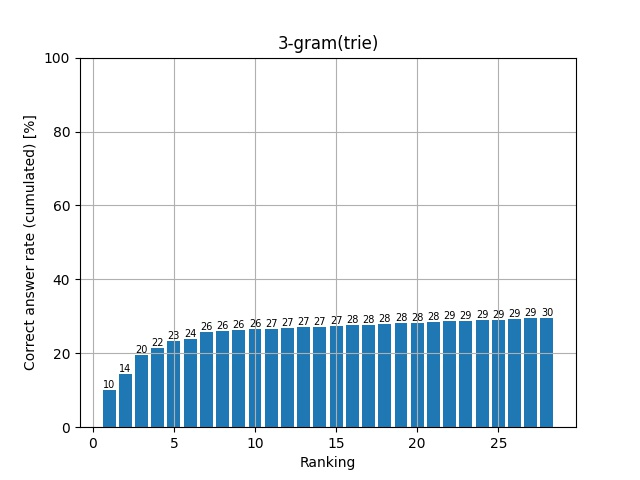
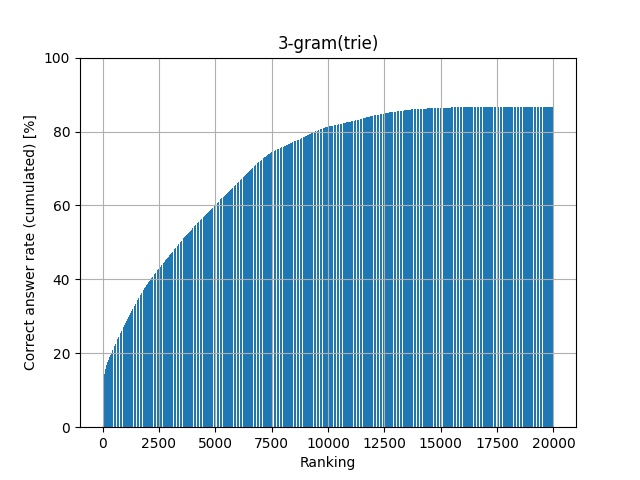
Update create_trie.py

diff --git a/create_trie.py b/create_trie.py
@@ -8,6 +8,8 @@ import preprocess
 import re
 import numpy as np
 import matplotlib.pyplot as plt
+from collections import deque
+import copy
 
 file_name = 'abcmiz_0.json'
 file_path = os.path.join('./learning_data', file_name)
@@ -16,6 +18,7 @@ MML_VCT = './data/mml.vct'
 
 # トライの最大の深さ
 N = 3
+Ranking_Number = 20000
 
 class TrieNode:
     def __init__(self, name):
@@ -44,7 +47,8 @@ class TrieCompleteManager:
 
     def __init__(self):
         self.root = None
-        self.accuracy = np.array([0 for _ in range(30)])
+        self.accuracy = np.array([0 for _ in range(Ranking_Number)])
+        self.right_answer_nums = 0
         self.prediction_time = 0
         self.setup()
     
@@ -69,8 +73,9 @@ class TrieCompleteManager:
             try:
                 assess_file_manager = OneFileAssessManager(file_path)
                 if method_name == 'acuracy':
-                    accuracy, tmp, prediction_times = assess_file_manager.assess_file_acuracy(self)
+                    accuracy, right_answer_nums, prediction_times = assess_file_manager.assess_file_acuracy(self)
                     self.accuracy += np.array(accuracy)
+                    self.right_answer_nums += right_answer_nums
                     self.prediction_time +=  prediction_times
                 elif method_name == 'keystroke':
                     assess_file_manager.assess_file_keystroke(self)
@@ -135,9 +140,7 @@ class TrieCompleteManager:
         self.type_to_symbols = type_to_symbols
 
     # 「__M_」などを具体的に，優先度をつけて提案できるように
-    def predict(self, user_input, type_to_symbols):
-        variables = []
-        labels = []
+    def predict(self, user_input, parsed_input, type_to_symbols, variables, labels):
         n = len(user_input)
         tree = self.root
         
@@ -145,22 +148,31 @@ class TrieCompleteManager:
         if n > N:
             n = N
 
-        token_list = user_input[::-1]
-        for i in range(n):
-            # FIXME:シンボルに接頭辞がついていないため，意図通りに動作しない
-            token = check_token_type(token_list, i)
-            # ユーザが利用している変数を保存しておく
-            if token == '__variable_':
-                variables.append(token_list[i])
-            elif token == '__label_':
-                labels.append(token_list[i])
+        parsed_input_reversed = parsed_input[::-1]
 
+        # ユーザ入力から，トライ木を検索
+        for i in range(len(parsed_input_reversed)):
+            # FIXME:シンボルに接頭辞がついていないため，意図通りに動作しない
+            # object -> 変数と判定されてしまう
+            # 「let x be object;」
+            # token = check_token_type(token_list, i)
+            token = parsed_input_reversed[i]
+
+            # ユーザが利用している変数を保存
+            if token == '__variable_':
+                variables.append(user_input[i])
+                pass
+            # ユーザが利用しているラベルを保存
+            elif token == '__label_':
+                labels.append(user_input[i])
+                pass
+            # トライ木の検索
             if token in tree.children:
                 tree = tree.children[token]
             else:
                 return {}
 
-        # [[トークン, 出現回数]]の形式
+        # sorted_keywordsは[[トークン, 出現回数]]の形式
         # 例：[['__variable', 100], ['be', 60] ... ]
         sorted_keywords = sorted(tree.keywords.items(), key=lambda x:x[1], reverse=True)
 
@@ -168,6 +180,8 @@ class TrieCompleteManager:
         # 例：{"be":1, "being":2}
         suggest_keywords = {}
         cnt = 1
+
+        # 「__variable_」「__M_」などを展開する処理
         for keyword in sorted_keywords:
             matched = re.match(r'__(\w)_', keyword[0])
             if matched:
@@ -182,26 +196,16 @@ class TrieCompleteManager:
                 for word in type_to_symbols[symbol_type[0]]:
                     suggest_keywords[word] = cnt
                     cnt += 1
+            # ユーザが利用した変数を提案
             elif keyword[0] == '__variable_':
-                # FIXME:変数の判別ができていない，1つしか提案できていない
-                # for v in variables[::-1]:
-                #     suggest_keywords[v] = cnt
-                #     cnt += 1
-
-                for v in ['x', 'y']:
+                for v in list(variables)[::-1]:
                     suggest_keywords[v] = cnt
                     cnt += 1
-                pass
+            
             elif keyword[0] == '__label_':
-                # FIXME:変数の場合と同様
-                # for l in labels[::-1]:
-                #     suggest_keywords[l] = cnt
-                #     cnt += 1
-
-                for l in ['A1', 'A2']:
+                for l in list(labels)[::-1]:
                     suggest_keywords[l] = cnt
                     cnt += 1
-                pass
             else:
                 suggest_keywords[keyword[0]] = cnt
                 cnt += 1
@@ -230,7 +234,8 @@ class TrieCompleteManager:
         plt.bar(left[:-2], height[:-2])
         count = 0
         for x, y in zip(left[:-2], height[:-2]):
-            plt.text(x, y, str(int(round(height[count], 0))), ha='center', va='bottom', fontsize=7)
+            # plt.text(x, y, str(int(round(height[count], 0))), ha='center', va='bottom', fontsize=7)
+            plt.text(x, y, '', ha='center', va='bottom', fontsize=7)
             count += 1
         plt.savefig(f'graphs/{title}.jpg')
         
@@ -240,8 +245,8 @@ class OneFileAssessManager:
 
     def __init__(self, file_name):
         self.file_name = file_name
-        self.variables = []
-        self.labels = []
+        self.variables = deque([])
+        self.labels = deque([])
         self.article = None
         self.type_to_symbols = None
 
@@ -249,48 +254,118 @@ class OneFileAssessManager:
             json_loaded = json.load(f)
         self.type_to_symbols = json_loaded['symbols']
         self.article = json_loaded['contents']
-
+    
+    def get_user_input(self, i, line_tokens, parsed_tokens):
+        if i >= N:
+            user_input = line_tokens[i-N+1:i]
+            parsed_input = parsed_tokens[i-N+1:i]
+        else:
+            user_input = parsed_tokens[:i]
+            parsed_input = parsed_tokens[:i]
+        
+        return user_input, parsed_input
     
     def assess_file_acuracy(self, trie_manager):
-        right_answer_nums = [0 for _ in range(30)]
+        right_answer_nums = [0 for _ in range(Ranking_Number)]
         prediction_cnt = 0
         in_suggest_cnt = 0
 
         for line in self.article:
             line_tokens= []
+            parsed_tokens = []
+            
             for token in line:
                 # tokenは["x", "__variable_"]のようになっている
                 # 予測プログラムには生のトークンを入力する
                 line_tokens.append(token[0])
+                parsed_tokens.append(token[1])
 
             for i in range(1, len(line_tokens)):
-                # 最大でN-1トークンを切り出す，iのトークンを予測
-                if i >= N:
-                    user_input = line_tokens[i-N+1:i]
-                else:
-                    user_input = line_tokens[:i]
-                
                 answer = line[i][0]
-                
-                suggest_keywords = trie_manager.predict(user_input, self.type_to_symbols)
+                user_input, parsed_input = self.get_user_input(i, line_tokens, parsed_tokens)
+                # suggest_keywords{'キーワード':優先順位}の辞書
+                # 例：{'be':1, 'being':2}
+                suggest_keywords = trie_manager.predict(user_input, parsed_input, self.type_to_symbols, self.variables, self.labels)
                 prediction_cnt += 1
                 
+                # 答えが提案候補に入っている数をカウント
                 if answer in suggest_keywords:
                     in_suggest_cnt += 1
                     rank = suggest_keywords[answer]
 
-                # 30候補以内であればインクリメント
-                if answer in suggest_keywords and suggest_keywords[answer] <= 30:
+                # Ranking_Number候補以内であればインクリメント
+                if answer in suggest_keywords and suggest_keywords[answer] <= Ranking_Number:
                     rank = suggest_keywords[answer]
                     right_answer_nums[rank-1] += 1
                 # print(f'input:{user_input}')
                 # print(f'suggest:{suggest_keywords}')
-        print(trie_manager.accuracy, trie_manager.prediction_time)
+        # print(trie_manager.accuracy, trie_manager.prediction_time)
         return right_answer_nums, in_suggest_cnt, prediction_cnt
 
-
     def assess_file_keystroke(self, trie_manager):
-        pass
+        original_cost = 0
+        cost = 0
+        
+        saving_cost = 0
+        # lineは[[let, let], [x, __variable_], [be, be], [object, __M_]]のような形式
+
+        for line in self.article:
+            line_tokens= []
+            parsed_tokens = []
+            print(f'original_cost:{original_cost}, cost:{cost}')
+            
+            for token in line:
+                # tokenは["x", "__variable_"]のようになっている
+                line_tokens.append(token[0])
+                parsed_tokens.append(token[1])
+
+            for i in range(1, len(line_tokens)):
+                answer = line[i][0]
+
+            length = len(line)
+            for idx in range(1, length):
+                answer = line[idx][0]
+                token_cost = len(answer)
+                original_cost += token_cost
+
+                user_input, parsed_input = self.get_user_input(i, line_tokens, parsed_tokens)
+                items = trie_manager.predict(user_input, parsed_input, self.type_to_symbols, self.variables, self.labels)
+
+                if token_cost <= 1:
+                    cost += token_cost
+                elif answer in items:
+                    input_idx = 0
+                    while token_cost >= 2:
+                        select_cost = items[answer]
+                        if select_cost < token_cost:
+                            print(f'answer:{answer}, items[answer]:{items[answer]}, 文字入力数:{input_idx}')
+                            print(f'select_cost:{select_cost}, token_cost:{token_cost}')
+                            print(f'節約コスト：{token_cost - select_cost}')
+                            saving_cost += (token_cost - select_cost)
+                            print()
+                            cost += select_cost
+                            break
+                        # 1文字入力
+                        else:
+                            input_idx += 1
+                            cost += 1
+                            token_cost -= 1
+                            # 残りのコストが2未満の場合は，節約にならないため，残りのコストを加えて終了
+                            if token_cost < 2:
+                                cost += token_cost
+                                break
+
+                            # 提案キーワード群の更新
+                            tmp = []
+                            for keyword in items:
+                                if keyword.startswith(answer[:input_idx]):
+                                    tmp.append(keyword)
+                            items = {}
+                            cnt = 1
+                            for item in tmp:
+                                items[item] = cnt
+                                cnt += 1
+        return original_cost, cost, saving_cost
 
     def create_one_file_trie(self, trie_manager):
         for line in self.article:
@@ -324,11 +399,13 @@ if __name__ == '__main__':
     trie_manager = TrieCompleteManager()
     trie_manager.setup()
 
-    trie_manager.assess_mml_acuracy()
-    print(trie_manager.accuracy, trie_manager.prediction_time)
+    # trie_manager.assess_mml_acuracy()
+    # print(trie_manager.accuracy, trie_manager.right_answer_nums, trie_manager.prediction_time)
 
 
-    # file_manager = OneFileAssessManager('./learning_data/abcmiz_0.json')
+    file_manager = OneFileAssessManager('./learning_data/pascal.json')
+    original_cost, cost, saving_cost = file_manager.assess_file_keystroke(trie_manager)
+    print(original_cost, cost, saving_cost)
     # ranking, in_suggest_cnt, total = file_manager.assess_file_acuracy(trie_manager)
     # print(ranking, in_suggest_cnt, total)
 

diff --git a/create_learning_data.py b/create_learning_data.py
@@ -101,7 +101,7 @@ if __name__ == '__main__':
         for line in tokens:
             line_data = []
             for i in range(len(line)):
-                token = re.sub(r'__\w_', '', line[i])
+                token = re.sub(r'__\w+_', '', line[i])
                 token_type = check_token_type(line, i)
                 line_data.append([token, token_type])
             if line_data:
